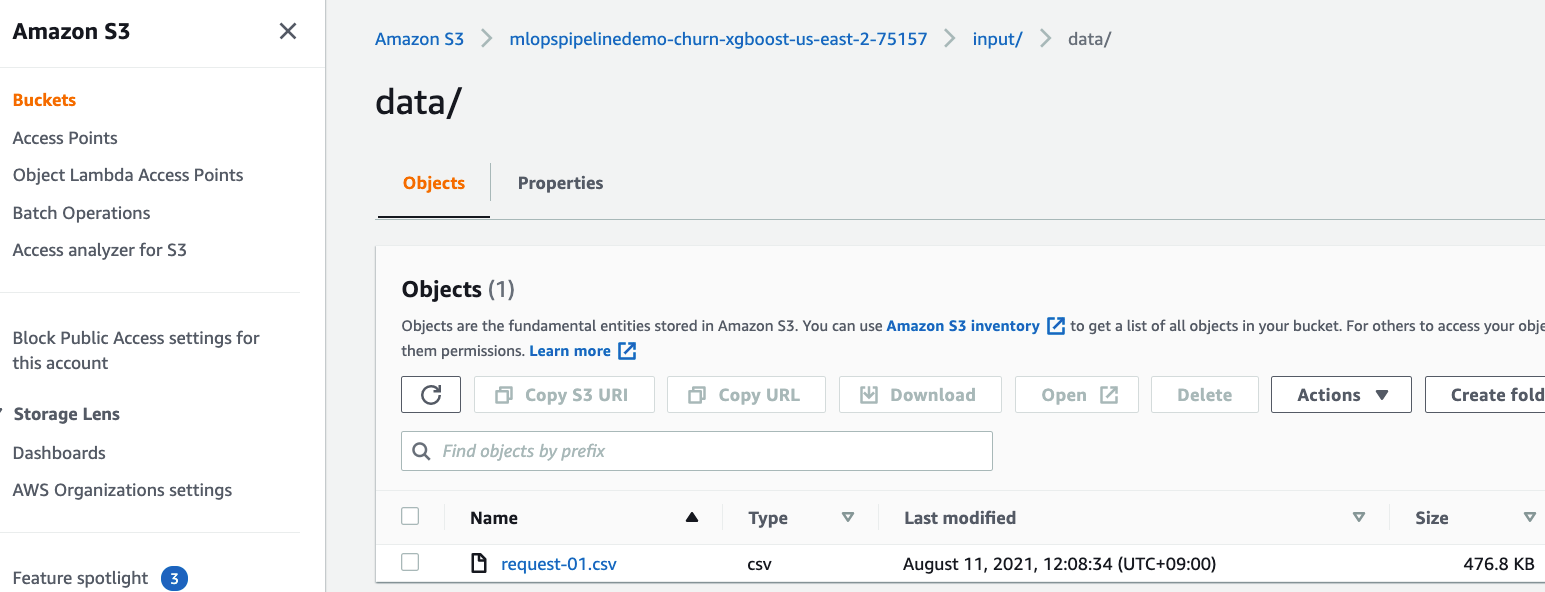
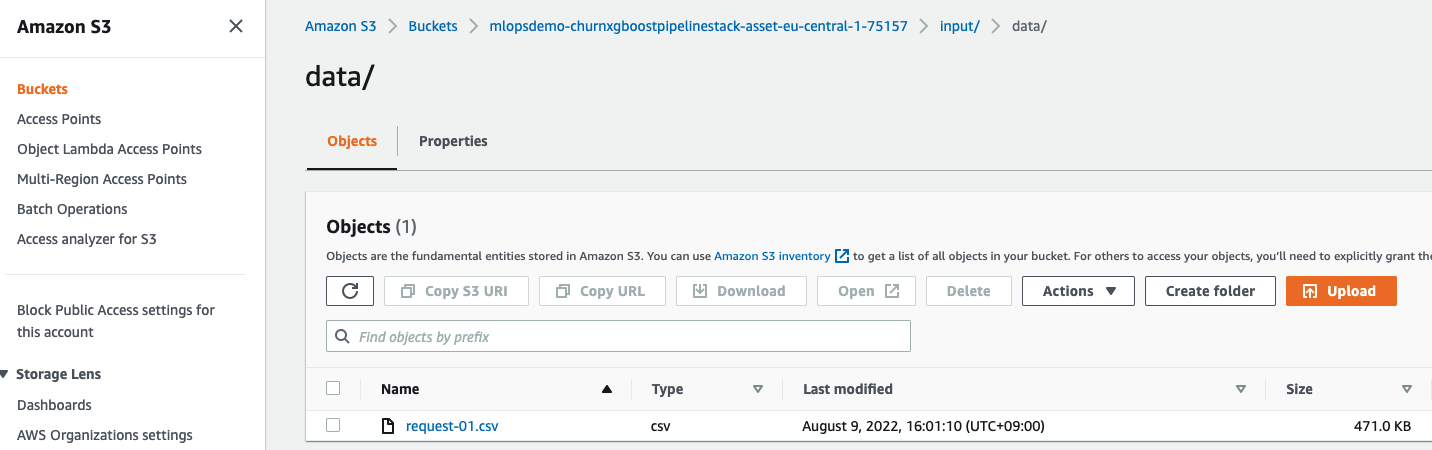
Change: change config.json(profile, project name)

diff --git a/codes/glue/churn-xgboost/script/test_invoke.py b/codes/glue/churn-xgboost/script/test_invoke.py
@@ -3,8 +3,8 @@ import csv
 import boto3
 
 
-os.environ['AWS_PROFILE'] = 'cdk-demo'
-_endpoint_name = 'MLOpsPipelineDemo-churn-xgboost'
+os.environ['AWS_PROFILE'] = 'cdk-v2'
+_endpoint_name = 'MLOpsDemo-churn-xgboost'
 
 _input_file = 'codes/glue/churn-xgboost/data/input.csv'
 _sagemaker = boto3.client('sagemaker-runtime')

diff --git a/README.md b/README.md
@@ -86,7 +86,7 @@ aws sts get-caller-identity --profile [your-profile]
 ```json
 {
     "Project": {
-        "Name": "MLOpsPipeline",   <----- your project name, all stacks wil be prefixed with [Project.Name+Project.Stage]
+        "Name": "MLOps",   <----- your project name, all stacks wil be prefixed with [Project.Name+Project.Stage]
         "Stage": "Demo",           <----- your project stage, all stacks wil be prefixed with [Project.Name+Project.Stage]
         "Account": "75157*******", <----- update according to your AWS Account
         "Region": "us-east-2",     <----- update according to your target resion
@@ -123,7 +123,7 @@ cdk list
 ...
 ==> CDK App-Config File is config/app-config-demo.json, which is from Environment-Variable.
 
-MLOpsPipelineDemo-ChurnXgboostPipelineStack
+MLOpsDemo-ChurnXgboostPipelineStack
 
 ...
 ...
@@ -175,10 +175,10 @@ Just execute the following command:
 sh codes/glue/churn-xgboost/script/upload_input.sh config/app-config-demo.json data/request-01.csv
 ...
 ...
-upload: codes/glue/churn-xgboost/data/input.csv to s3://mlopspipelinedemo-churn-xgboost-[region]-[account 5 digits]/input/data/request-01.csv
+upload: codes/glue/churn-xgboost/data/input.csv to s3://mlopsdemo-churnxgboostpipelinestack-asset-[region]-[account 5 digits]/input/data/request-01.csv
 ```
 
-This command will upload `input.csv` file into S3 bucket such as `mlopspipelinedemo-churn-xgboost-[region]-[account 5 digits]` with `input/data/request-01.csv` key.
+This command will upload `input.csv` file into S3 bucket such as `mlopsdemo-churnxgboostpipelinestack-asset-[region]-[account 5 digits]` with `input/data/request-01.csv` key.
 
 ![s3-input-data](docs/asset/s3-input-data.png)
 
@@ -211,7 +211,7 @@ sh script/deploy_stacks.sh config/app-config-demo.json
 sh codes/glue/churn-xgboost/script/upload_input.sh config/app-config-demo.json data/request-02.csv
 ...
 ...
-upload: codes/glue/churn-xgboost/data/input.csv to s3://mlopspipelinedemo-churn-xgboost-[region]-[account 5 digits]/input/data/request-02.csv
+upload: codes/glue/churn-xgboost/data/input.csv to s3://mlopsdemo-churnxgboostpipelinestack-asset-[region]-[account 5 digits]/input/data/request-02.csv
 ```
 
 Amazon SageMaker Endpoint
@@ -244,7 +244,7 @@ Before invocation, open `codes/glue/churn-xgboost/script/test_invoke.py` file, a
 ...
 
 os.environ['AWS_PROFILE'] = 'cdk-demo'
-_endpoint_name = 'MLOpsPipelineDemo-churn-xgboost'
+_endpoint_name = 'MLOpsDemo-churn-xgboost'
 
 ...
 ...
@@ -282,7 +282,7 @@ python3 codes/glue/churn-xgboost/script/test_invoke.py
 
 ### **How to re-trigger the StateMachine in Step Functions**
 
-Because a S3-event trigger is registered in `Lambda Function`, it is restarted when you upload a file with a different name(s3 key) under `input` in `mlopspipelinedemo-churn-xgboost-region-account`.
+Because a S3-event trigger is registered in `Lambda Function`, it is restarted when you upload a file with a different name(s3 key) under `input` in `mlopsdemo-churnxgboostpipelinestack-asset-region-account`.
 
 ![lambda-s3-event](docs/asset/lambda-s3-event.png)
 
